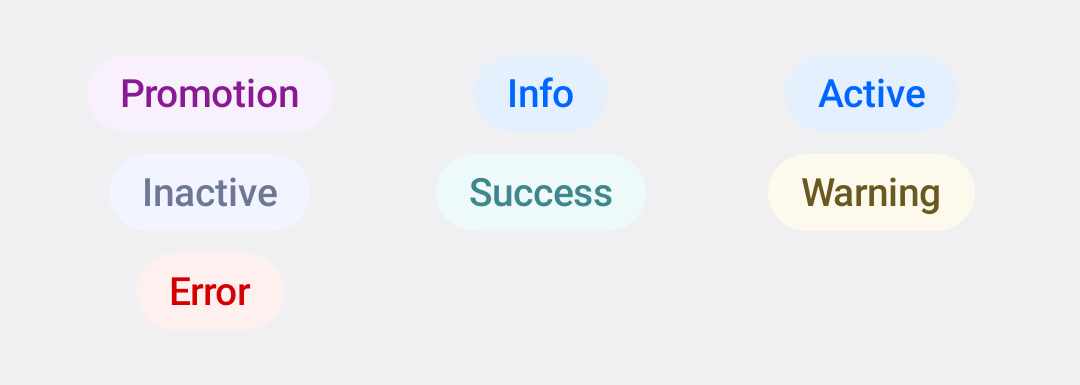
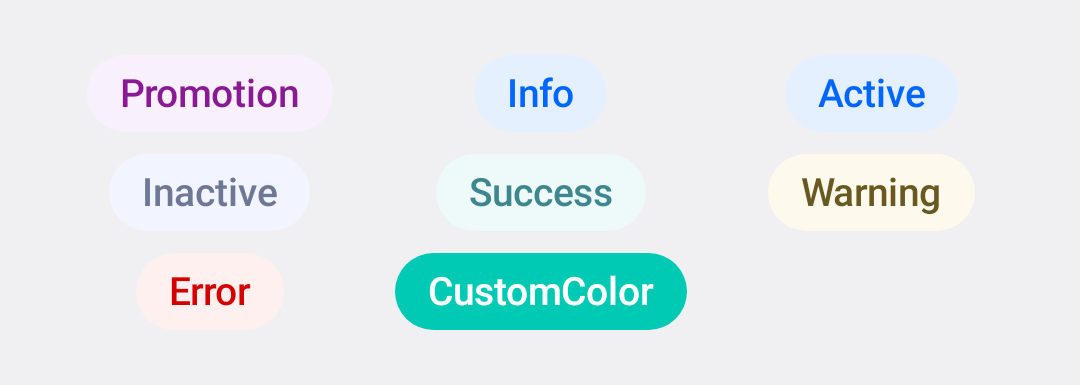
Add custom color to compose tags ANDROID-15841

Changed region(s): [[0.3667, 0.6545, 0.6417, 0.8727]]

diff --git a/catalog/src/main/java/com/telefonica/mistica/catalog/ui/compose/components/Tags.kt b/catalog/src/main/java/com/telefonica/mistica/catalog/ui/compose/components/Tags.kt
@@ -16,14 +16,19 @@ import androidx.compose.runtime.mutableStateOf
 import androidx.compose.runtime.remember
 import androidx.compose.ui.Alignment
 import androidx.compose.ui.Modifier
+import androidx.compose.ui.graphics.Color
 import androidx.compose.ui.text.input.TextFieldValue
 import androidx.compose.ui.tooling.preview.Preview
 import androidx.compose.ui.unit.dp
 import com.telefonica.mistica.catalog.R
 import com.telefonica.mistica.compose.tag.Tag
+import com.telefonica.mistica.compose.tag.TagColors
 import com.telefonica.mistica.compose.theme.MisticaTheme
 import com.telefonica.mistica.compose.theme.brand.MovistarBrand
 import com.telefonica.mistica.tag.TagView
+
+
+private const val CUSTOM_TAG_COLOR = 0xFF00CAB3
 
 @Composable
 fun Tags() {
@@ -48,6 +53,19 @@ fun Tags() {
                 item { Tag(text = "Success", style = TagView.TYPE_SUCCESS, modifier = Modifier.padding(4.dp)) }
                 item { Tag(text = "Warning", style = TagView.TYPE_WARNING, modifier = Modifier.padding(4.dp)) }
                 item { Tag(text = "Error", style = TagView.TYPE_ERROR, modifier = Modifier.padding(4.dp)) }
+                item {
+                    Tag(
+                        text = "CustomColor",
+                        style = TagView.TYPE_ERROR,
+                        customColors =
+                            TagColors(
+                                backgroundColor = Color(CUSTOM_TAG_COLOR),
+                                textColor = MisticaTheme.colors.tagTextPromo
+                            ),
+                        modifier = Modifier
+                            .padding(4.dp)
+                    )
+                }
             }
             LazyVerticalGrid(
                 columns = GridCells.Fixed(3),
@@ -60,6 +78,20 @@ fun Tags() {
                 item { Tag(text = "Success", style = TagView.TYPE_SUCCESS, modifier = Modifier.padding(4.dp), icon = R.drawable.icn_cross) }
                 item { Tag(text = "Warning", style = TagView.TYPE_WARNING, modifier = Modifier.padding(4.dp), icon = R.drawable.icn_cross) }
                 item { Tag(text = "Error", style = TagView.TYPE_ERROR, modifier = Modifier.padding(4.dp), icon = R.drawable.icn_cross) }
+                item {
+                    Tag(
+                        text = "CustomColor",
+                        style = TagView.TYPE_ERROR,
+                        customColors =
+                            TagColors(
+                                backgroundColor = Color(CUSTOM_TAG_COLOR),
+                                textColor = MisticaTheme.colors.tagTextPromo
+                            ),
+                        modifier = Modifier
+                            .padding(4.dp),
+                        icon = R.drawable.icn_cross,
+                    )
+                }
             }
         }
 

diff --git a/library/src/test/java/com/telefonica/mistica/compose/tag/TagTest.kt b/library/src/test/java/com/telefonica/mistica/compose/tag/TagTest.kt
@@ -4,6 +4,7 @@ import androidx.compose.foundation.layout.padding
 import androidx.compose.foundation.lazy.grid.GridCells
 import androidx.compose.foundation.lazy.grid.LazyVerticalGrid
 import androidx.compose.ui.Modifier
+import androidx.compose.ui.graphics.Color
 import androidx.compose.ui.test.junit4.createComposeRule
 import androidx.compose.ui.test.onRoot
 import androidx.compose.ui.unit.dp
@@ -27,7 +28,7 @@ import org.robolectric.ParameterizedRobolectricTestRunner
 @RunWith(ParameterizedRobolectricTestRunner::class)
 internal class TagTest(
     private val brand: Brand,
-): ScreenshotsTest() {
+) : ScreenshotsTest() {
     @get:Rule
     val composeTestRule = createComposeRule()
 
@@ -48,7 +49,12 @@ internal class TagTest(
                 ) {
                     buttons.forEach {
                         item {
-                            Tag(text = it.text, style = it.style, modifier = Modifier.padding(4.dp))
+                            Tag(
+                                text = it.text,
+                                style = it.style,
+                                customColors = it.customColors,
+                                modifier = Modifier.padding(4.dp)
+                            )
                         }
                     }
                 }
@@ -72,11 +78,21 @@ internal class TagTest(
             ButtonInfo("Inactive", TYPE_INACTIVE),
             ButtonInfo("Success", TYPE_SUCCESS),
             ButtonInfo("Warning", TYPE_WARNING),
-            ButtonInfo("Error", TYPE_ERROR)
+            ButtonInfo("Error", TYPE_ERROR),
+            ButtonInfo(
+                text = "CustomColor",
+                style = TYPE_ERROR,
+                customColors = TagColors(
+                    backgroundColor = Color(CUSTOM_TAG_COLOR),
+                    textColor = Color.White,
+                )
+            ),
         )
     }
 
     companion object {
+        private const val CUSTOM_TAG_COLOR = 0xFF00CAB3
+
         @JvmStatic
         @ParameterizedRobolectricTestRunner.Parameters(name = "Brand: {0}")
         fun brands() = TestUtils.getAllBrands().map { arrayOf(it) }
@@ -85,5 +101,6 @@ internal class TagTest(
     data class ButtonInfo(
         val text: String,
         @TagStyle val style: Int,
+        val customColors: TagColors? = null,
     )
 }

diff --git a/library/src/main/java/com/telefonica/mistica/compose/tag/Tag.kt b/library/src/main/java/com/telefonica/mistica/compose/tag/Tag.kt
@@ -42,9 +42,11 @@ fun Tag(
     text: String,
     modifier: Modifier = Modifier,
     @TagStyle style: Int = TYPE_PROMO,
+    customColors: TagColors? = null,
     @DrawableRes icon: Int? = null,
 ) {
-    val (background, textColor) = style.getStyle()
+    val (background, textColor) = if (customColors == null ) style.getStyle()
+    else customColors.backgroundColor to customColors.textColor
 
     Surface(
         modifier = modifier
@@ -90,7 +92,7 @@ object TagTestTags {
     const val TAG_TEXT = "tag_text"
 }
 
-class Tag constructor(
+class Tag(
     private val content: String,
 ) {
     private var modifier: Modifier = Modifier
@@ -101,14 +103,17 @@ class Tag constructor(
     @DrawableRes
     private var icon: Int? = null
 
+    private var customColors: TagColors? = null
+
     fun withModifier(modifier: Modifier) = apply { this.modifier = this.modifier.then(modifier) }
     fun withStyle(@TagStyle style: Int) = apply { this.style = style }
     fun withIcon(@DrawableRes icon: Int?) = apply { this.icon = icon }
+    fun withCustomColors(customColors: TagColors?) = apply { this.customColors = customColors }
 
     @SuppressLint("ComposableNaming")
     @Composable
     fun build() {
-        Tag(text = content, modifier = modifier, style = style, icon = icon)
+        Tag(text = content, modifier = modifier, style = style, icon = icon, customColors = customColors)
     }
 }
 

diff --git a/library/src/main/java/com/telefonica/mistica/compose/tag/TagColors.kt b/library/src/main/java/com/telefonica/mistica/compose/tag/TagColors.kt
@@ -1,0 +1,8 @@
+package com.telefonica.mistica.compose.tag
+
+import androidx.compose.ui.graphics.Color
+
+data class TagColors(
+    val textColor: Color,
+    val backgroundColor: Color,
+)
